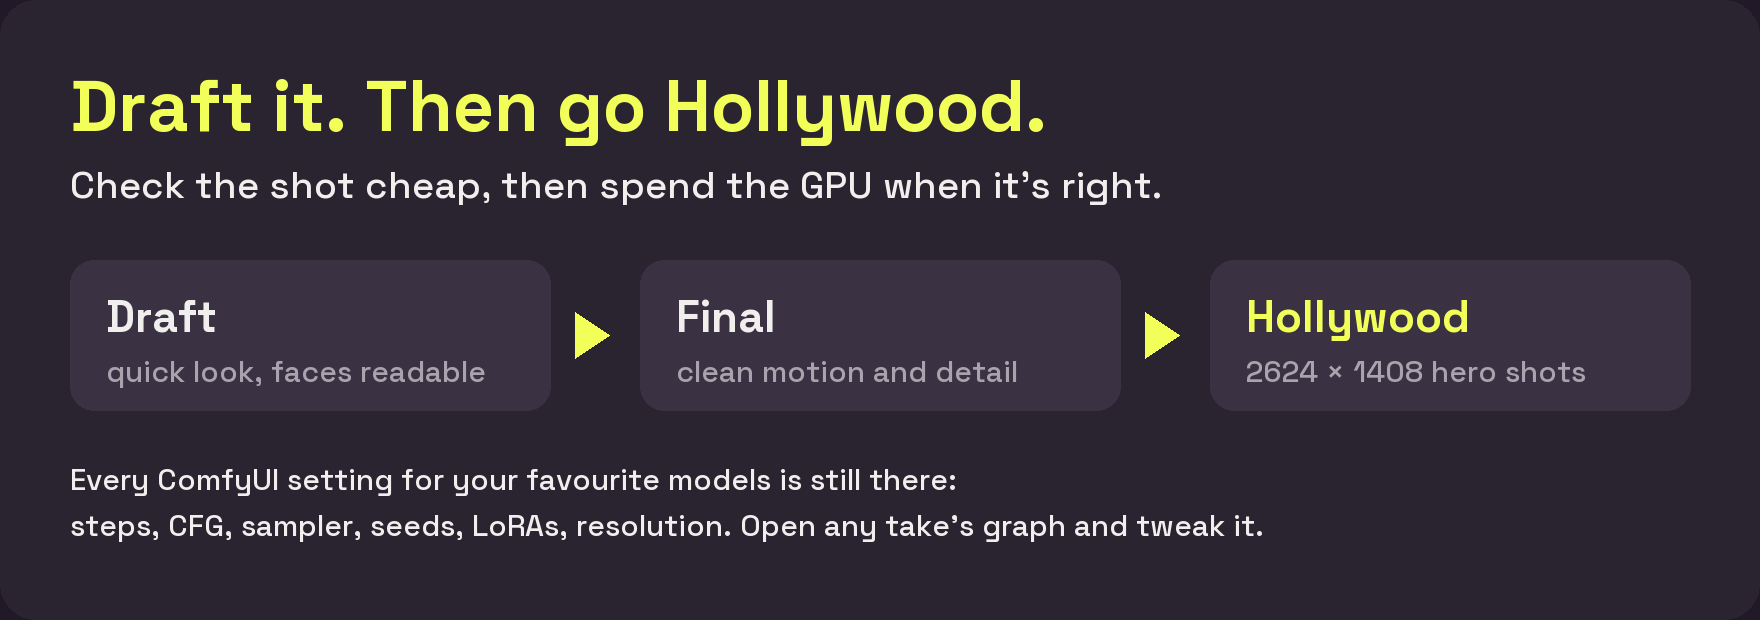
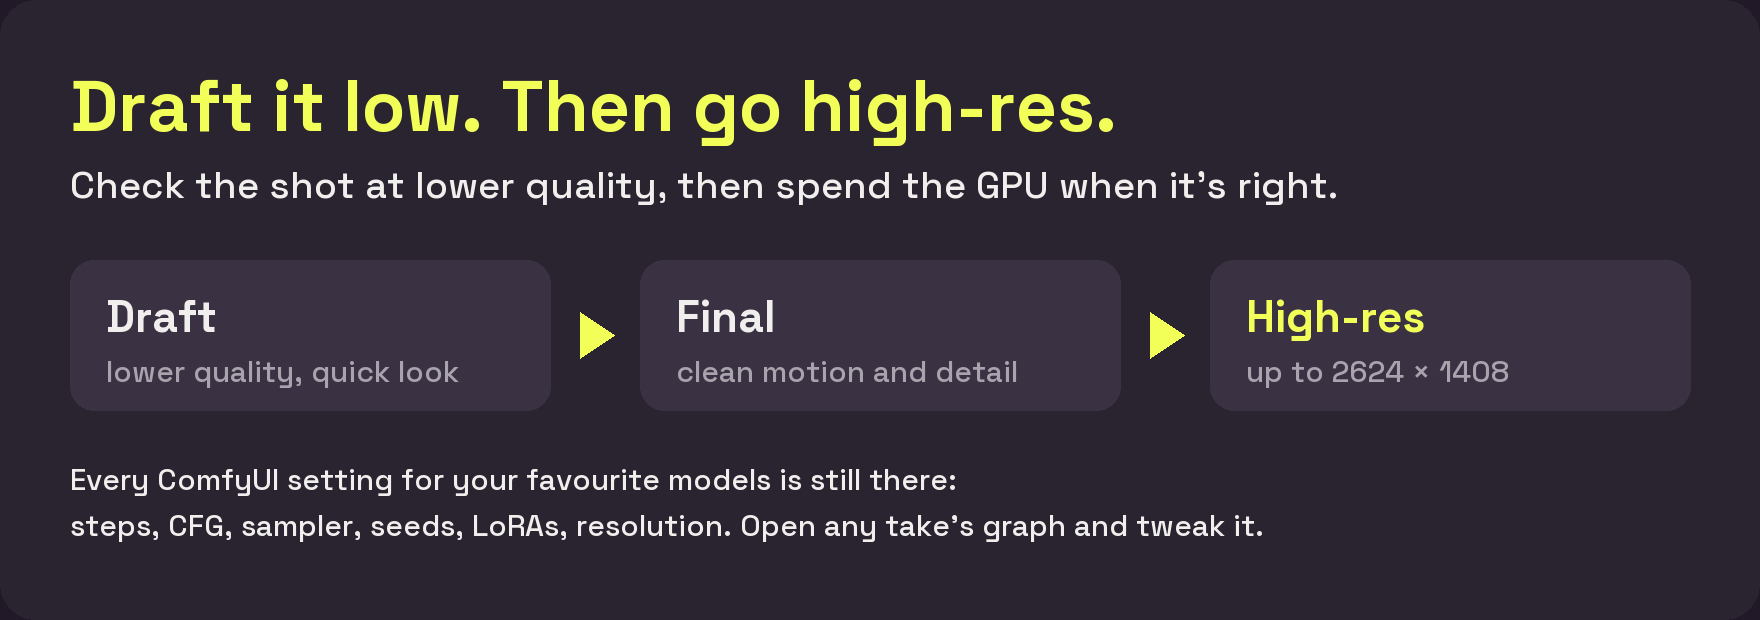
README: quality card says Draft low → high-res (not 'Hollywood')

diff --git a/README.md b/README.md
@@ -70,7 +70,7 @@ Not in the demo at all (each one says "available in the full install"): new rend
 
 <p align="center"><img src="docs/media/readme_v4/card_cut.gif" width="880" alt="Cut and deliver: a real-time timeline with generated sound. Out to Avid, Premiere, Resolve and FCP; Blender and Unreal round trip."></p>
 
-<p align="center"><img src="docs/media/readme_v4/card_quality.png" width="880" alt="Draft it, then go Hollywood: Draft (quick look) to Final (clean motion and detail) to Hollywood (2624 x 1408). Every ComfyUI setting for your favourite models is still there: steps, CFG, sampler, seeds, LoRAs, resolution."></p>
+<p align="center"><img src="docs/media/readme_v4/card_quality.png" width="880" alt="Draft it low, then go high-res: Draft (lower quality, quick look) to Final (clean motion and detail) to high-res (up to 2624 x 1408). Every ComfyUI setting for your favourite models is still there: steps, CFG, sampler, seeds, LoRAs, resolution."></p>
 
 <p align="center"><b>Also on main:</b> the Activity bar shows which node your render is on, with an ETA · right-click a clip in the Cut to edit it at the step that made it · kept Drive takes are auto-corrected · the try-it demo loads your script.</p>
 
